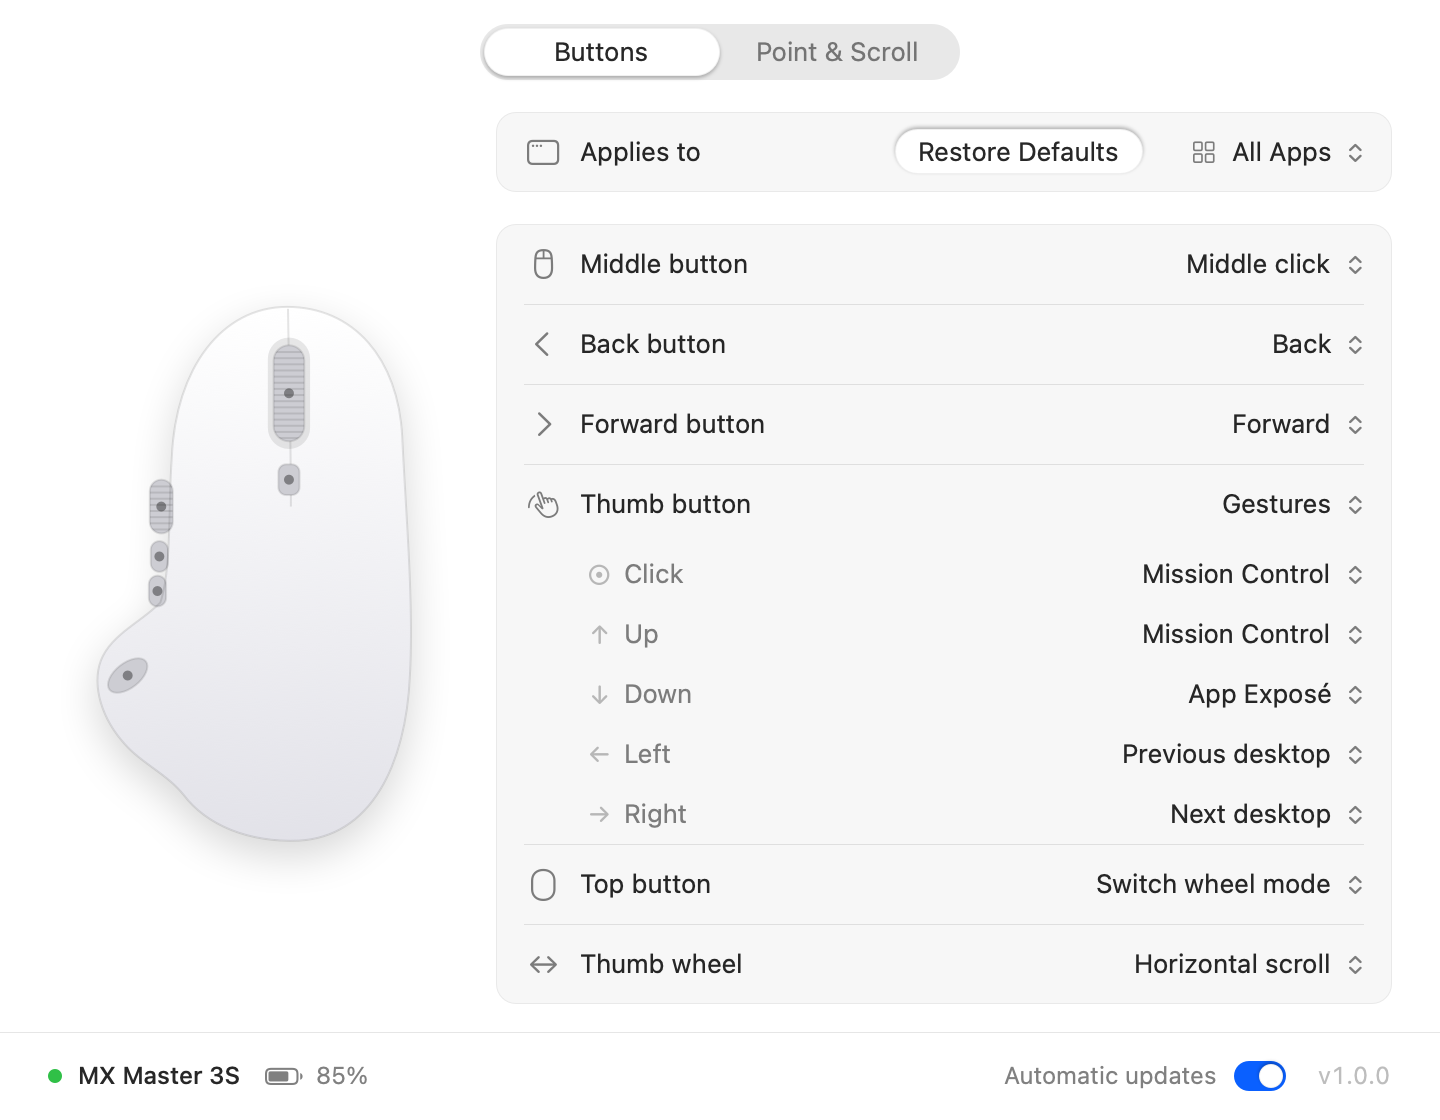
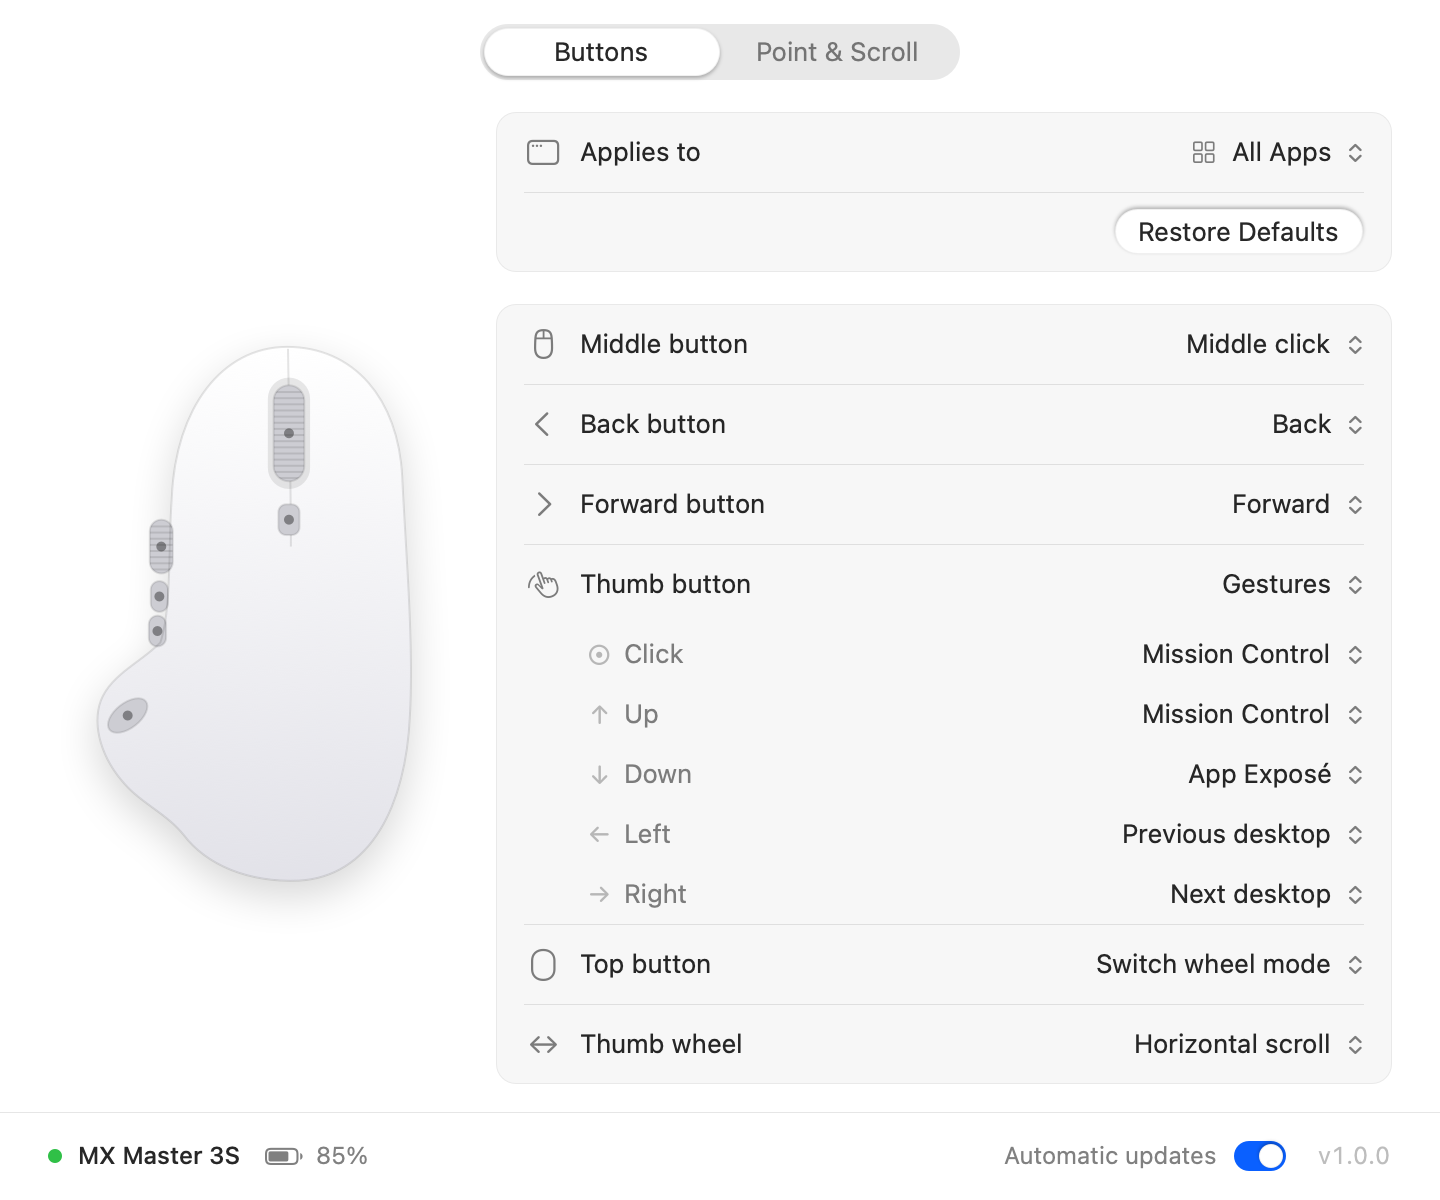
Mouse 1.0.11: Copy From and Remove are buttons under the app
- The Applies to menu lists only All Apps, the apps and Add App…, so it no longer grows by two
  items per app.
- A row under it holds Remove, Copy From and Restore Defaults. Copy From opens a list of the
  other layouts (All Apps and every other app); Remove appears while an app is shown. Copy From
  and Restore Defaults keep their places when Remove comes and goes.
- The window is 40 pt taller, so the buttons with gestures still fit without scrolling.

diff --git a/src/ui/window.mm b/src/ui/window.mm
@@ -10,7 +10,7 @@
 using namespace ui;
 
 static const CGFloat kWidth = 720;
-static const CGFloat kHeight = 560;
+static const CGFloat kHeight = 600;
 static const CGFloat kMargin = 24;
 static const CGFloat kFooterH = 44;
 static const CGFloat kBannerH = 40;
@@ -407,7 +407,7 @@ static NSScrollView* makeScroll(NSView* document) {
 }
 
 - (void)setConfig:(const mouse::Config&)config {
-    std::string shown = _app >= 0 && _app < static_cast<NSInteger>(_cfg.apps.size()) ? _cfg.apps[static_cast<size_t>(_app)].bundleId : "";
+    std::string shown = [self showsApp] ? _cfg.apps[static_cast<size_t>(_app)].bundleId : "";
     _cfg = config;
     _app = -1;
     for (size_t i = 0; i < _cfg.apps.size(); i++)
@@ -563,23 +563,19 @@ static NSImage* subIcon(NSString* name) { return symbol(name, 10, NSFontWeightSe
         }
     }
 
-    // Which app the layout is for, and a way back to the defaults.
+    // Which app the layout is for, and what can be done with that layout.
     FormSection apps;
     FormRow appRow;
     appRow.title = @"Applies to";
     appRow.icon = rowIcon(@"macwindow");
     appRow.height = kRowH;
-    MButton* reset = [[MButton alloc] initWithTitle:@"Restore Defaults"];
-    reset.onPress = ^{
-        [weakSelf restoreDefaults];
-    };
     MPopup* appPopup = [self popupWithItems:[self appItems] selected:static_cast<int>(_app + 1) label:@"Applies to"];
     appPopup.onSelect = ^(int tag) {
         [weakSelf chooseApp:tag];
     };
-    appRow.trailing.push_back(reset);
     appRow.trailing.push_back(appPopup);
     apps.rows.push_back(appRow);
+    apps.rows.push_back([self layoutActions]);
 
     std::vector<FormSection> sections;
     sections.push_back(std::move(apps));
@@ -610,14 +606,18 @@ static NSImage* subIcon(NSString* name) { return symbol(name, 10, NSFontWeightSe
 
 // ---------------------------------------------------------------------------- apps
 
+- (BOOL)showsApp { return _app >= 0 && _app < static_cast<NSInteger>(_cfg.apps.size()); }
+
 // The layout the Buttons page shows and changes: the one for all apps, or an app's own.
 - (mouse::Layout&)shownLayout {
-    if (_app >= 0 && _app < static_cast<NSInteger>(_cfg.apps.size())) return _cfg.apps[static_cast<size_t>(_app)];
+    if ([self showsApp]) return _cfg.apps[static_cast<size_t>(_app)];
     return _cfg;
 }
 
-// App items are 1 + their index; "Copy Buttons from" items are kCopyFrom + the source app's index.
-static const int kAllApps = 0, kAddApp = 1000, kRemoveApp = 1001, kCopyFrom = 2000;
+// Tags of the app list and of Copy From: all apps, then each app as 1 + its index.
+static const int kAllApps = 0, kAddApp = 1000;
+
+static NSImage* allAppsIcon() { return symbol(@"square.grid.2x2", 12, NSFontWeightRegular); }
 
 - (NSImage*)iconForApp:(const std::string&)bundleId {
     NSString* key = str(bundleId);
@@ -636,21 +636,11 @@ static const int kAllApps = 0, kAddApp = 1000, kRemoveApp = 1001, kCopyFrom = 20
 
 - (std::vector<MenuItem>)appItems {
     std::vector<MenuItem> items;
-    items.push_back({@"All Apps", kAllApps, symbol(@"square.grid.2x2", 12, NSFontWeightRegular)});
+    items.push_back({@"All Apps", kAllApps, allAppsIcon()});
     for (size_t i = 0; i < _cfg.apps.size(); i++)
         items.push_back({str(_cfg.apps[i].name), static_cast<int>(i) + 1, [self iconForApp:_cfg.apps[i].bundleId]});
-    // The layout shown can take the buttons of any other app set up already.
-    bool copies = false;
-    for (size_t i = 0; i < _cfg.apps.size(); i++) {
-        if (static_cast<NSInteger>(i) == _app) continue;
-        if (!copies) items.push_back({nil, -1});
-        copies = true;
-        items.push_back({[NSString stringWithFormat:@"Copy Buttons from “%@”", str(_cfg.apps[i].name)], kCopyFrom + static_cast<int>(i)});
-    }
     items.push_back({nil, -1});
     items.push_back({@"Add App…", kAddApp});
-    if (_app >= 0 && _app < static_cast<NSInteger>(_cfg.apps.size()))
-        items.push_back({[NSString stringWithFormat:@"Remove “%@”", str(_cfg.apps[static_cast<size_t>(_app)].name)], kRemoveApp});
     return items;
 }
 
@@ -659,24 +649,70 @@ static const int kAllApps = 0, kAddApp = 1000, kRemoveApp = 1001, kCopyFrom = 20
         [self addApp];
         return;
     }
-    if (tag >= kCopyFrom) {
-        // The shown layout (all apps, or one app) becomes a copy of another app's.
-        size_t from = static_cast<size_t>(tag - kCopyFrom);
-        if (from < _cfg.apps.size() && static_cast<NSInteger>(from) != _app) {
-            mouse::Layout copy = _cfg.apps[from];
-            [self shownLayout] = copy;
-            [self save];
-        }
-        [self rebuildButtons];
-        return;
+    _app = tag - 1;
+    [self rebuildButtons];
+}
+
+// The layouts the shown one can copy: all apps' (while an app is shown) and every other app's.
+- (std::vector<MenuItem>)copyItems {
+    std::vector<MenuItem> items;
+    if ([self showsApp]) items.push_back({@"All Apps", kAllApps, allAppsIcon()});
+    for (size_t i = 0; i < _cfg.apps.size(); i++)
+        if (static_cast<NSInteger>(i) != _app)
+            items.push_back({str(_cfg.apps[i].name), static_cast<int>(i) + 1, [self iconForApp:_cfg.apps[i].bundleId]});
+    return items;
+}
+
+// Under the app list: Remove (an app's own layout), Copy From and Restore Defaults. They are laid
+// out from the right, so Copy From and Restore Defaults stay put while Remove comes and goes.
+- (FormRow)layoutActions {
+    __weak MSettings* weakSelf = self;
+    FormRow row;
+    row.height = kRowH;
+    if ([self showsApp]) {
+        MButton* remove = [[MButton alloc] initWithTitle:@"Remove"];
+        remove.label = [@"Remove " stringByAppendingString:str(_cfg.apps[static_cast<size_t>(_app)].name)];
+        remove.onPress = ^{
+            [weakSelf removeApp];
+        };
+        row.trailing.push_back(remove);
     }
-    if (tag == kRemoveApp) {
-        if (_app >= 0 && _app < static_cast<NSInteger>(_cfg.apps.size())) _cfg.apps.erase(_cfg.apps.begin() + _app);
-        _app = -1;
-        [self save];
-    } else {
-        _app = tag - 1;
+    std::vector<MenuItem> sources = [self copyItems];
+    if (!sources.empty()) {
+        MPullDown* copy = [[MPullDown alloc] initWithTitle:@"Copy From"];
+        copy.label = @"Copy buttons from";
+        [copy setItems:sources selected:-1];
+        copy.onSelect = ^(int tag) {
+            [weakSelf takeButtonsFrom:tag];
+        };
+        row.trailing.push_back(copy);
     }
+    MButton* reset = [[MButton alloc] initWithTitle:@"Restore Defaults"];
+    reset.onPress = ^{
+        [weakSelf restoreDefaults];
+    };
+    row.trailing.push_back(reset);
+    return row;
+}
+
+// The shown layout becomes a copy of another one (a Copy From tag).
+- (void)takeButtonsFrom:(int)tag {
+    const mouse::Layout* from = nullptr;
+    if (tag == kAllApps) from = &_cfg;
+    else if (tag > 0 && static_cast<size_t>(tag - 1) < _cfg.apps.size()) from = &_cfg.apps[static_cast<size_t>(tag - 1)];
+    mouse::Layout& to = [self shownLayout];
+    if (!from || from == &to) return;
+    to = *from;
+    [self save];
+    [self rebuildButtons];
+}
+
+// The shown app goes back to the buttons of all apps.
+- (void)removeApp {
+    if (![self showsApp]) return;
+    _cfg.apps.erase(_cfg.apps.begin() + _app);
+    _app = -1;
+    [self save];
     [self rebuildButtons];
 }
 
@@ -685,7 +721,7 @@ static const int kAllApps = 0, kAddApp = 1000, kRemoveApp = 1001, kCopyFrom = 20
     NSPopUpButton* popup = [[NSPopUpButton alloc] initWithFrame:NSZeroRect pullsDown:NO];
     NSMenuItem* all = [popup.menu addItemWithTitle:@"All Apps" action:nil keyEquivalent:@""];
     all.tag = -1;
-    all.image = symbol(@"square.grid.2x2", 12, NSFontWeightRegular);
+    all.image = allAppsIcon();
     NSMenuItem* line = [NSMenuItem separatorItem];
     line.tag = -2;  // never mistaken for the first app (tag 0)
     [popup.menu addItem:line];
@@ -752,7 +788,7 @@ static const int kAllApps = 0, kAddApp = 1000, kRemoveApp = 1001, kCopyFrom = 20
 
 // All apps: Mouse's own defaults. An app: the same as all apps.
 - (void)restoreDefaults {
-    if (_app >= 0 && _app < static_cast<NSInteger>(_cfg.apps.size()))
+    if ([self showsApp])
         static_cast<mouse::Layout&>(_cfg.apps[static_cast<size_t>(_app)]) = static_cast<const mouse::Layout&>(_cfg);
     else
         static_cast<mouse::Layout&>(_cfg) = mouse::Layout{};

diff --git a/src/ui/popup.mm b/src/ui/popup.mm
@@ -1,6 +1,6 @@
-// Popup button and its list. The list is a borderless child panel with menu material that shows
-// and hides instantly (NSMenu fades out), highlights on hover, selects on click or press-drag-release,
-// and handles arrow keys, Return and Esc. Clicking anywhere else closes it.
+// Popup button, pull-down button and their list. The list is a borderless child panel with menu
+// material that shows and hides instantly (NSMenu fades out), highlights on hover, selects on click
+// or press-drag-release, and handles arrow keys, Return and Esc. Clicking anywhere else closes it.
 #import "ui/ui.hpp"
 
 #include <algorithm>
@@ -18,6 +18,13 @@ static const CGFloat kPopupPadL = 8;  // title x inside the popup button
 static const CGFloat kChevronW = 16;
 static const CGFloat kImage = 16;      // item images
 static const CGFloat kImageGap = 6;
+static const CGFloat kPullGap = 4;     // between a pull-down button and its list
+static const CGFloat kPullPadL = 12;   // title x inside a pull-down button
+static const CGFloat kPullPadR = 10;   // right of its chevron
+
+@interface MPopup ()
+- (BOOL)pullsDown;
+@end
 
 static bool hasImages(const std::vector<MenuItem>& items) {
     for (const MenuItem& it : items)
@@ -204,21 +211,30 @@ static NSImage* roundedMask(CGFloat r) {
     for (size_t i = 0; i < popup.items.size(); i++) {
         const MenuItem& it = popup.items[i];
         if (it.tag >= 0) w = std::max(w, textWidth(it.title, f));
-        if (it.tag == popup.selectedTag && selIndex < 0) selIndex = (NSInteger)i;
+        if (it.tag >= 0 && it.tag == popup.selectedTag && selIndex < 0) selIndex = (NSInteger)i;
         h += it.tag < 0 ? kSepH : kItemH;
     }
     CGFloat imageColumn = hasImages(popup.items) ? kImage + kImageGap : 0;
-    w = std::ceil(std::max(kTextX + imageColumn + w + kRightPad, popup.bounds.size.width + kTextX - [popup textInset] + 8));
+    BOOL pull = popup.pullsDown;
+    CGFloat minW = pull ? popup.bounds.size.width : popup.bounds.size.width + kTextX - [popup textInset] + 8;
+    w = std::ceil(std::max(kTextX + imageColumn + w + kRightPad, minW));
 
-    // Line the current item up with the button's title, like a native popup menu.
     NSRect btn = [parent convertRectToScreen:[popup convertRect:popup.bounds toView:nil]];
-    CGFloat x = NSMinX(btn) + [popup textInset] - kTextX;
-    CGFloat itemMid = selIndex >= 0 ? [_list offsetOf:selIndex] + kItemH / 2 : kPadV + kItemH / 2;
-    CGFloat top = NSMidY(btn) + itemMid;  // screen coordinates grow upwards
-    NSRect frame = NSMakeRect(x, top - h, w, h);
+    NSRect frame;
+    if (pull) {
+        // Right below the button, like a native pull-down menu.
+        frame = NSMakeRect(NSMinX(btn), NSMinY(btn) - kPullGap - h, w, h);
+    } else {
+        // Line the current item up with the button's title, like a native popup menu.
+        CGFloat x = NSMinX(btn) + [popup textInset] - kTextX;
+        CGFloat itemMid = selIndex >= 0 ? [_list offsetOf:selIndex] + kItemH / 2 : kPadV + kItemH / 2;
+        CGFloat top = NSMidY(btn) + itemMid;  // screen coordinates grow upwards
+        frame = NSMakeRect(x, top - h, w, h);
+    }
     NSScreen* screen = parent.screen ?: NSScreen.mainScreen;
     if (screen) {
         NSRect vf = NSInsetRect(screen.visibleFrame, 4, 4);
+        if (pull && NSMinY(frame) < NSMinY(vf)) frame.origin.y = NSMaxY(btn) + kPullGap;  // no room below: above
         if (NSMinY(frame) < NSMinY(vf)) frame.origin.y = NSMinY(vf);
         if (NSMaxY(frame) > NSMaxY(vf)) frame.origin.y = NSMaxY(vf) - h;
         if (NSMaxX(frame) > NSMaxX(vf)) frame.origin.x = NSMaxX(vf) - w;
@@ -361,10 +377,12 @@ static NSImage* roundedMask(CGFloat r) {
 
 - (const std::vector<MenuItem>&)items { return _items; }
 - (CGFloat)textInset { return kPopupPadL; }
+- (BOOL)pullsDown { return NO; }
 
 - (void)setItems:(const std::vector<MenuItem>&)items selected:(int)tag {
     _items = items;
     _selectedTag = tag;
+    if (self.pullsDown) return;  // keeps its own title and size
     _title = @"";
     _image = nil;
     for (const MenuItem& it : _items) {
@@ -381,6 +399,10 @@ static NSImage* roundedMask(CGFloat r) {
 
 - (void)choose:(int)tag {
     NS_VALID_UNTIL_END_OF_SCOPE MPopup* keep = self;
+    if (self.pullsDown) {  // a command: nothing to select
+        if (_onSelect) _onSelect(tag);
+        return;
+    }
     if (tag == _selectedTag) return;
     CGFloat right = NSMaxX(self.frame);
     [self setItems:_items selected:tag];
@@ -442,6 +464,42 @@ static NSImage* roundedMask(CGFloat r) {
     return YES;
 }
 - (BOOL)accessibilityPerformShowMenu { return [self accessibilityPerformPress]; }
+
+@end
+
+// ============================================================================ MPullDown
+
+static NSImage* pullChevron() {
+    static NSImage* img = symbol(@"chevron.down", 9, NSFontWeightSemibold);
+    return img;
+}
+
+@implementation MPullDown {
+    NSString* _text;
+}
+
+- (instancetype)initWithTitle:(NSString*)title {
+    CGFloat w = std::ceil(kPullPadL + textWidth(title, font(13)) + 6 + pullChevron().size.width + kPullPadR);
+    if ((self = [super initWithFrame:NSMakeRect(0, 0, w, 24)])) {
+        _text = [title copy];
+        self.label = title;
+    }
+    return self;
+}
+
+- (BOOL)pullsDown { return YES; }
+- (CGFloat)textInset { return kPullPadL; }
+
+- (void)drawRect:(NSRect)dirty {
+    NSRect b = drawBezel(self, self.pressed);
+    drawText(self, _text, font(13), [NSColor labelColor], kPullPadL, NSMidY(b));
+    NSImage* chevron = pullChevron();
+    drawSymbol(self, chevron, NSMakePoint(NSMaxX(self.bounds) - kPullPadR - chevron.size.width / 2, NSMidY(b)),
+               [NSColor secondaryLabelColor]);
+}
+
+- (NSAccessibilityRole)accessibilityRole { return NSAccessibilityMenuButtonRole; }
+- (id)accessibilityValue { return nil; }
 
 @end
 

diff --git a/src/ui/ui.hpp b/src/ui/ui.hpp
@@ -49,6 +49,7 @@ void drawSymbol(NSView* v, NSImage* img, NSPoint center, NSColor* tint);
 void fillRounded(NSRect r, CGFloat radius, NSColor* c);
 void strokeRounded(NSView* v, NSRect r, CGFloat radius, NSColor* c);  // 1 px, inside r
 void drawKnobShadowed(NSRect r, CGFloat radius, NSColor* fill, NSColor* edge);
+NSRect drawBezel(NSView* v, BOOL pressed);  // push button background over v's bounds; returns the bezel
 
 NSString* str(const std::string& s);
 NSString* str(const char* s);
@@ -109,6 +110,12 @@ struct MenuItem {
 @property(nonatomic, copy) void (^onSelect)(int tag);
 - (CGFloat)textInset;  // x of the title inside the button
 - (void)choose:(int)tag;
+@end
+
+// Push button with a list of commands: "Copy From ⌄". The list opens below it; choosing an item
+// calls onSelect and the button keeps its title. Set the items with selected: -1.
+@interface MPullDown : MPopup
+- (instancetype)initWithTitle:(NSString*)title;
 @end
 
 // Inline keyboard shortcut recorder.

diff --git a/src/ui/controls.mm b/src/ui/controls.mm
@@ -145,6 +145,15 @@ static NSColor* knobEdge() {
     return c;
 }
 
+NSRect ui::drawBezel(NSView* v, BOOL pressed) {
+    NSRect b = NSInsetRect(v.bounds, 0.5, 0.5);
+    b.size.height -= 0.5;
+    CGFloat r = b.size.height / 2;
+    drawKnobShadowed(b, r, bezelFill(), knobEdge());
+    if (pressed) fillRounded(b, r, pressFill());
+    return b;
+}
+
 // ============================================================================ MControl
 
 @implementation MControl {
@@ -476,11 +485,7 @@ static const CGFloat kKnob = 18;
 }
 
 - (void)drawRect:(NSRect)dirty {
-    NSRect b = NSInsetRect(self.bounds, 0.5, 0.5);
-    b.size.height -= 0.5;
-    CGFloat r = b.size.height / 2;
-    drawKnobShadowed(b, r, bezelFill(), knobEdge());
-    if (self.pressed) fillRounded(b, r, pressFill());
+    NSRect b = drawBezel(self, self.pressed);
     drawTextCentered(self, _title, font(13), [NSColor labelColor], NSMidX(b), NSMidY(b));
 }
 

diff --git a/src/ui/form.mm b/src/ui/form.mm
@@ -103,7 +103,8 @@ static const CGFloat kSpacing = 8;     // between trailing controls
             for (auto it = r.trailing.rbegin(); it != r.trailing.rend(); ++it) {
                 NSView* v = *it;
                 NSSize sz = v.frame.size;
-                CGFloat pad = [v isKindOfClass:[MPopup class]] ? 0 : 6;  // non-popups align to the padding
+                BOOL borderless = [v isKindOfClass:[MPopup class]] && ![v isKindOfClass:[MPullDown class]];
+                CGFloat pad = borderless ? 0 : 6;  // controls with an edge align to the padding
                 x -= sz.width + pad;
                 v.frame = NSMakeRect(snap(self, x), snap(self, mid - sz.height / 2), sz.width, sz.height);
                 x -= kSpacing - pad;

diff --git a/README.md b/README.md
@@ -24,9 +24,9 @@ once closed.
   an app and let go. A shortcut can also be a single key like right ⌘ or left ⌥, held for as
   long as the button (the trigger many dictation apps use).
 - **Per app**: give any app buttons, gestures and a thumb wheel of its own; every other app uses
-  the layout for all apps. Copy the buttons of an app you have set up already, when you add an
-  app or later from the **Applies to** menu (say Brave with Chrome's). **Restore Defaults** puts
-  a layout back.
+  the layout for all apps. A new app can start with the buttons of one you have set up already,
+  and **Copy From** copies them at any time (say Brave with Chrome's). **Remove** returns an app
+  to the layout for all apps, and **Restore Defaults** puts a layout back.
 - **Gestures**: hold the thumb button and move the mouse up, down, left or right.
 - **Point & Scroll**: pointer speed (200–8000 DPI), scrolling speed and direction, smooth
   scrolling, wheel mode (auto-shift, ratchet or free spin) and thumb-wheel speed and direction.
